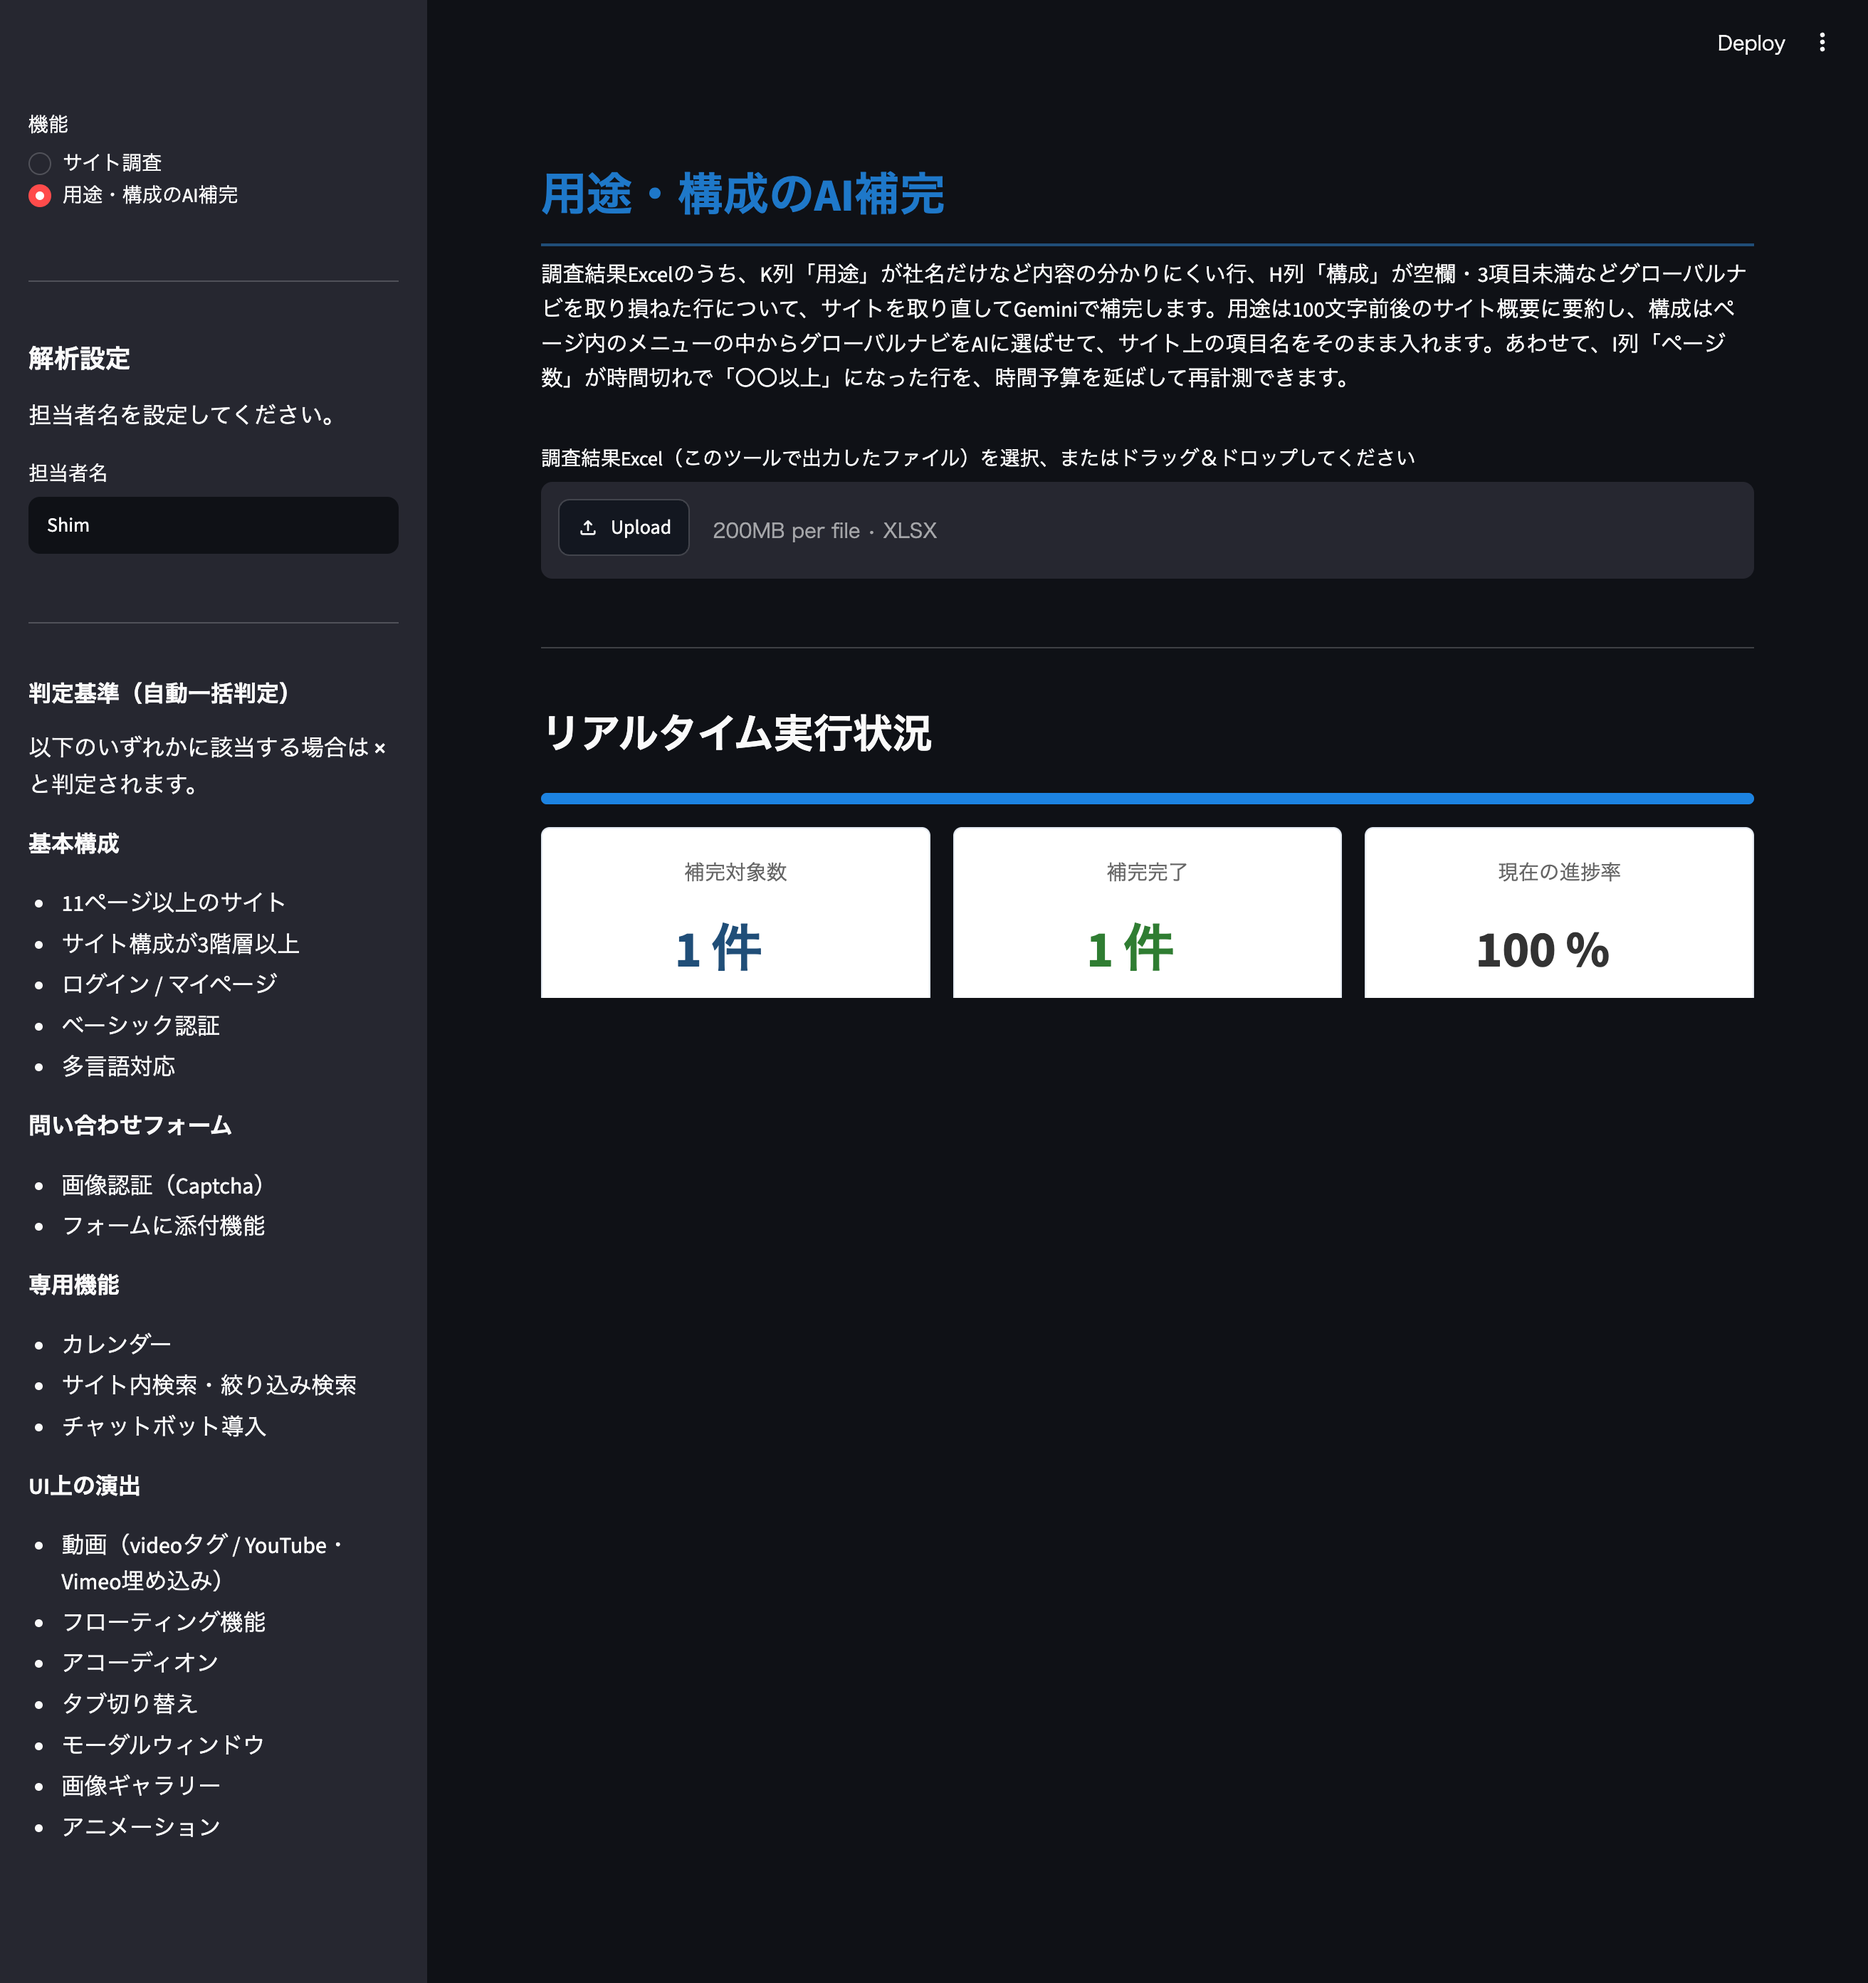
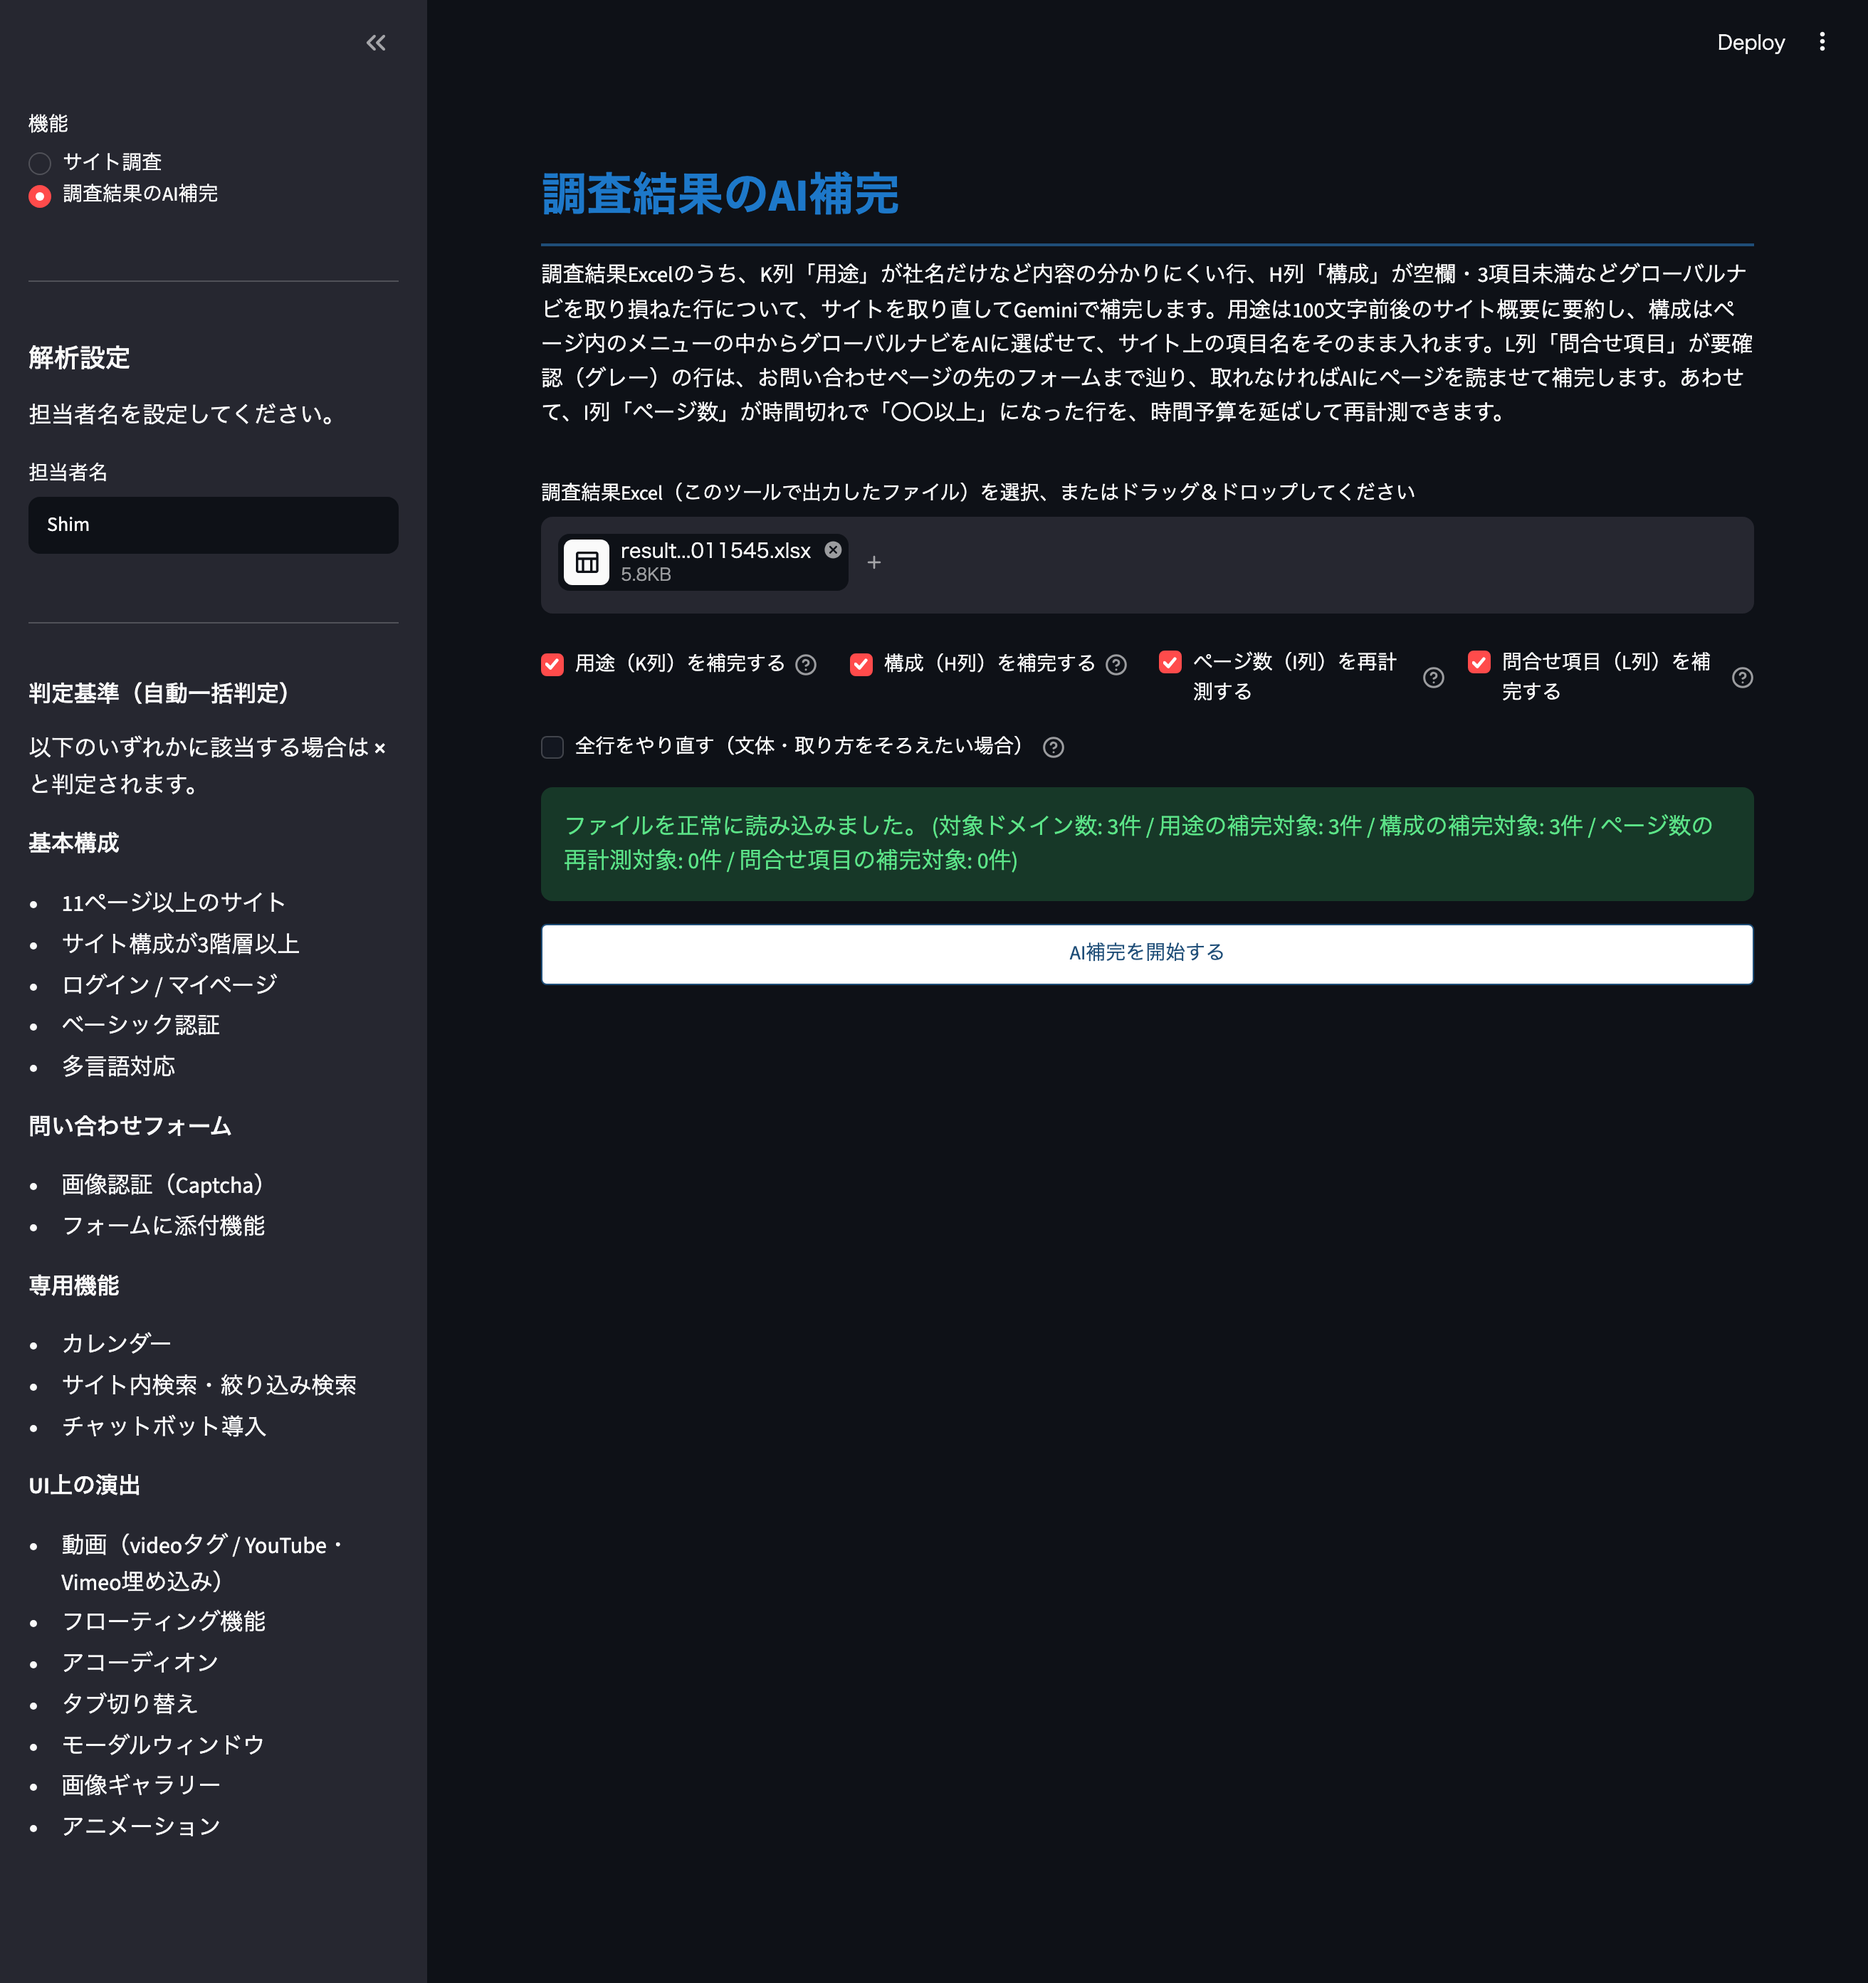
docs: add missing tests to README and refresh screenshots

diff --git a/README.en.md b/README.en.md
@@ -153,10 +153,13 @@ PYTHON-WEB-ANALYZER/
 ├── temp/                      # Temporary file output directory
 ├── logs/                      # Output location for per-run log files
 ├── tests/                     # Unit tests
+│   ├── test_crawler_contact_uncertain.py # Tests for the uncertain "no contact form" flag
+│   ├── test_crawler_form_fields.py # Tests for contact-form field label extraction
 │   ├── test_crawler_global_nav.py # Tests for global-nav extraction
 │   ├── test_description_enricher.py # Tests for AI enrichment and page-count re-measurement
 │   ├── test_evaluator.py      # Tests for evaluation logic
 │   ├── test_excel_service.py  # Tests for Excel import/export
+│   ├── test_job_repository.py # Tests for SQLite persistence (column migration)
 │   ├── test_reverse_dns_checker.py # Tests for server lookup
 │   ├── test_site_summarizer.py # Tests for Gemini calls (summarization, rate limiting)
 │   └── test_ssl_checker.py    # Tests for SSL verification
@@ -298,7 +301,16 @@ To ensure robustness, core logic is thoroughly covered by unit tests using `pyte
 * **Target selection and writing**: Verifies, with `SiteSummarizer` and friends stubbed out (no network traffic), the target rules for Purpose/Structure/page count/Contact fields (column L only for gray "問い合わせフォームなし" and blank cells), skipping "already renewed" rows, fetching a site only once when both Purpose and Structure are targets, using the candidate chosen by AI (falling back to the rule-based result when the AI call fails, removing phone/SNS items, re-rendering only when the static HTML has no candidates), rewriting the result columns (C/M/N) after a page-count re-measurement, following contact pages to their form pages for rule-based extraction and falling back to the AI answer, and reporting rows skipped due to the rate limit.
 * **Gemini calls**: Verifies, by mocking `httpx.post`, the assembly of source text, returning an empty string without an API key or on API errors, and the cooldown on persistent 429s reported via `pop_rate_limited()` (other errors are not treated as rate limiting), and dropping contact field names that do not appear on the page.
 
-#### 6. Server Lookup (ReverseDnsChecker)
+#### 6. Contact-Form Analysis (WebCrawler)
+
+* **Field label extraction**: verifies forms with hidden inputs inside the label box, grouped radio buttons, branch forms with hidden tables/badges/line breaks, removal of required/optional badges, and keeping confirmation-email fields while excluding buttons, using HTML fragments.
+* **Uncertain "no contact form"**: verifies the `contact_form_uncertain` flag is raised only when a form may have been missed (e.g. the contact page has inputs but no fields were extracted) and not raised when a form is found, using `httpx.MockTransport` with no external traffic.
+
+#### 7. Persistence (JobRepository)
+
+* **Migration of existing DBs**: verifies that a database created before the uncertain-flag column was added gets the column on startup and can still be read and written.
+
+#### 8. Server Lookup (ReverseDnsChecker)
 
 * **Reverse DNS / RDAP assembly**: With `socket` and `httpx` mocked, verifies that the IP organization name is extracted from the RDAP response in priority order (`fn` of the `registrant` entity → first `remarks` entry → network name), that an empty string is returned on network failure or an invalid response, that only the hostname is extracted from a URL for forward lookup, the output format when only one of hostname / organization is available, and that no further lookups are made when the domain can't be resolved.
 
